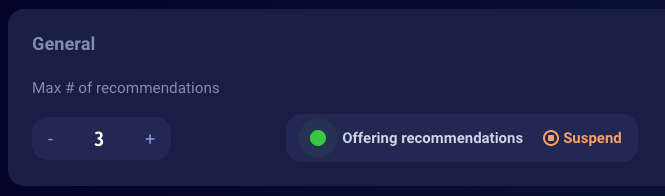
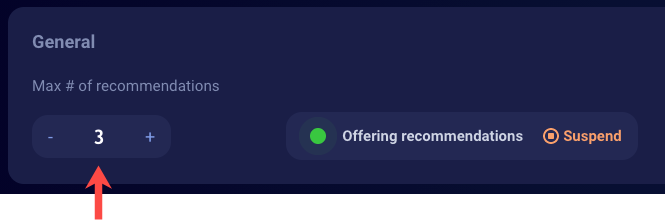
Adjust general settings doc

diff --git a/pages/Documents/ConversationalAI/ConversationAssist/RecommendationSources/configuring-settings.md b/pages/Documents/ConversationalAI/ConversationAssist/RecommendationSources/configuring-settings.md
@@ -11,14 +11,21 @@ indicator: messaging
 
 The **Settings** page in Conversation Assist contains settings that are shared by all recommendation sources, or by all recommendation sources of a given type (bots or knowledge bases).
 
-### General
+### Suspend/Resume recommendations
 
-General settings apply to all recommendation sources.
+This setting applies to all recommendation sources.
+
+<img width="600" src="img/agentassist/settings_general2.png">
+
+When this setting is on (blinking green), Conversation Assist recommends bots and answers inline in conversations. Click the toggle to suspend or resume recommendations globally.
+
+### Max # of recommendations
+
+This setting applies to all recommendation sources.
 
 <img width="600" src="img/agentassist/settings_general.png">
 
-* **Max # of recommendations**: Specify the maximum number of bot and answer recommendations that Conversation Assist offers at one time. The default value is 3.
-* **Suspend/Resume**: When this setting is on (blinking green), Conversation Assist recommends bots and answers inline in conversations. Use this **Suspend**/**Resume** toggle to turn on and off recommendations globally.
+Set the maximum number of recommendations (bot and answer) that Conversation Assist offers at one time. The default value is 3.
 
 ### Answer confidence
 

diff --git a/pages/Documents/ConversationalAI/ConversationAssist/RecommendationSources/setting-up-bots.md b/pages/Documents/ConversationalAI/ConversationAssist/RecommendationSources/setting-up-bots.md
@@ -110,7 +110,7 @@ If you later delete a bot, the next time you access the **Bots** tab, the list i
 
 1. [Access Conversation Assist](conversation-assist-overview.html#access-conversation-assist), and click **Settings**.
 2. Configure the following relevant settings:
-    * [Max # of recommendations](conversation-assist-recommendation-sources-configuring-settings.html#general)
+    * [Max # of recommendations](conversation-assist-recommendation-sources-configuring-settings.html#max--of-recommendations)
     * [Bot confidence](conversation-assist-recommendation-sources-configuring-settings.html#bot-confidence)
     * [Bot messages](conversation-assist-recommendation-sources-configuring-settings.html#bot-messages)
 

diff --git a/pages/Documents/ConversationalAI/ConversationAssist/RecommendationSources/setting-up-knowledge-bases.md b/pages/Documents/ConversationalAI/ConversationAssist/RecommendationSources/setting-up-knowledge-bases.md
@@ -93,5 +93,5 @@ If you later delete a knowledge base in KnowledgeAI, the next time you access th
 
 1. [Access Conversation Assist](conversation-assist-overview.html#access-conversation-assist), and click **Settings**
 2. Configure the following relevant settings:
-    * [Max # of recommendations](conversation-assist-recommendation-sources-configuring-settings.html#general)
+    * [Max # of recommendations](conversation-assist-recommendation-sources-configuring-settings.html#max--of-recommendations)
     * [Answer confidence](conversation-assist-recommendation-sources-configuring-settings.html#answer-confidence)
